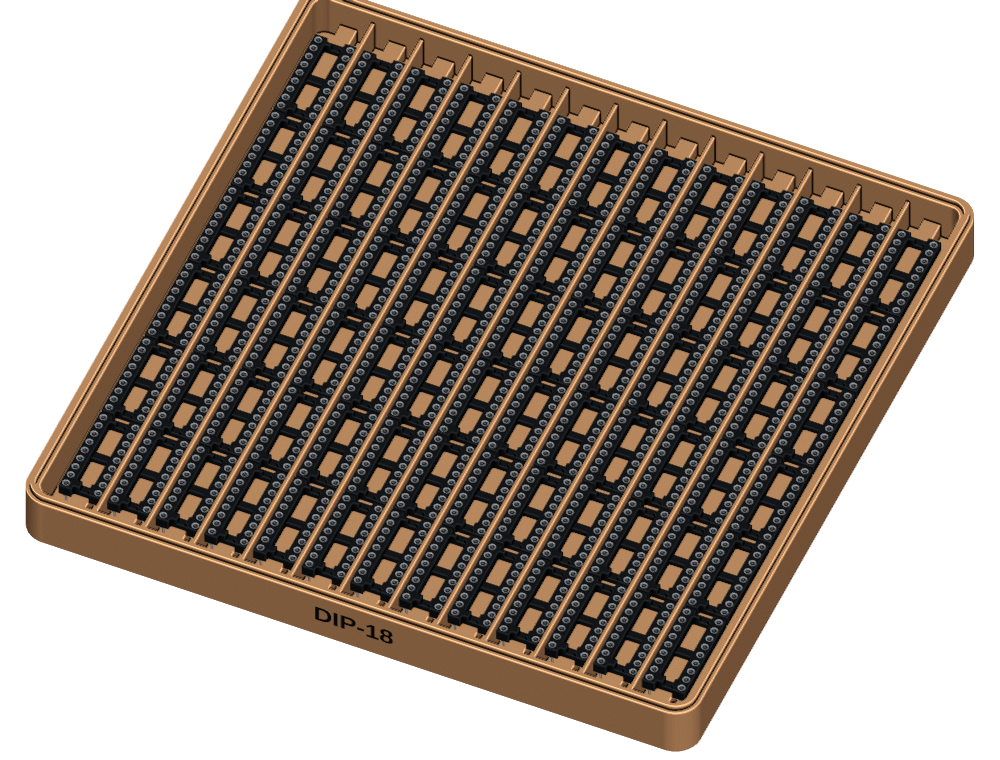
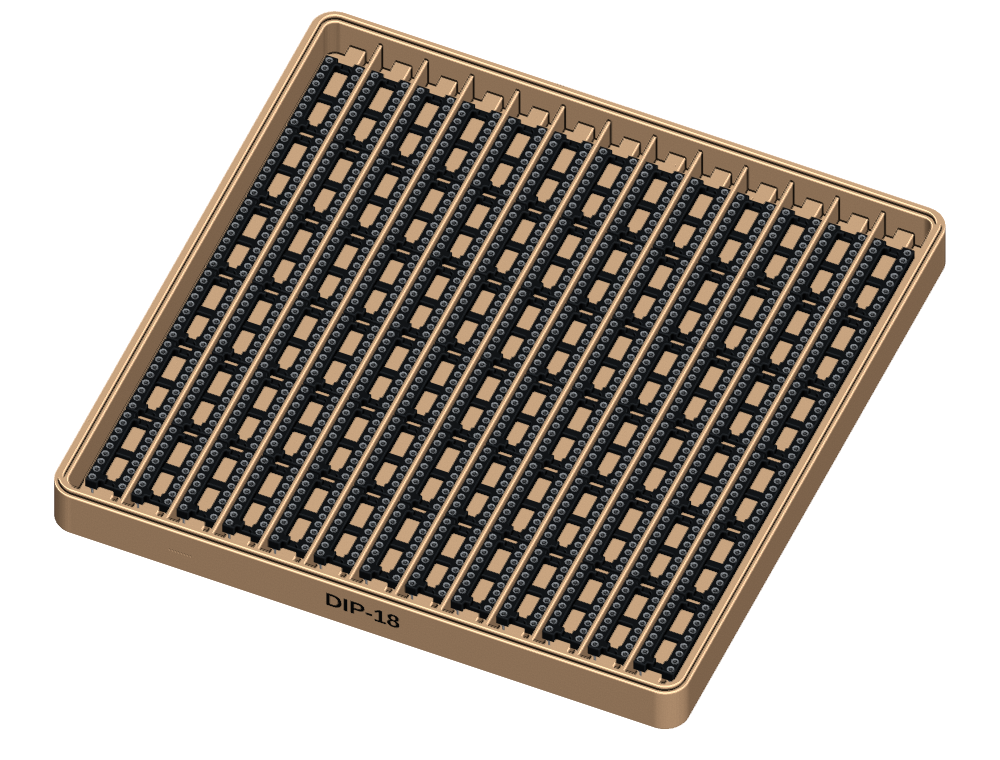
Tuning render

diff --git a/scripts/render_readme.py b/scripts/render_readme.py
@@ -182,7 +182,7 @@ socket_model_names = {
 
 bpy.ops.wm.read_factory_settings(use_empty=True)
 
-tray_mat = material("Matte sepia PLA", (0.58, 0.32, 0.16), roughness=0.86)
+tray_mat = material("Matte light sepia PLA", (0.70, 0.47, 0.29), roughness=0.86)
 label_mat = material("Black label", (0.008, 0.008, 0.008), roughness=0.90)
 socket_mat = material("Black socket body", (0.012, 0.014, 0.016), roughness=0.76)
 contact_mat = material("Socket contacts", (0.30, 0.32, 0.34),
@@ -201,7 +201,7 @@ if len(args) > 1:
 bpy.ops.object.camera_add(location=(215, -230, 405))
 camera = bpy.context.object
 camera.data.type = "ORTHO"
-camera.data.ortho_scale = 218
+camera.data.ortho_scale = 232
 camera.data.lens = 55
 point_at(camera, (80, 80, 3.0))
 bpy.context.scene.camera = camera
